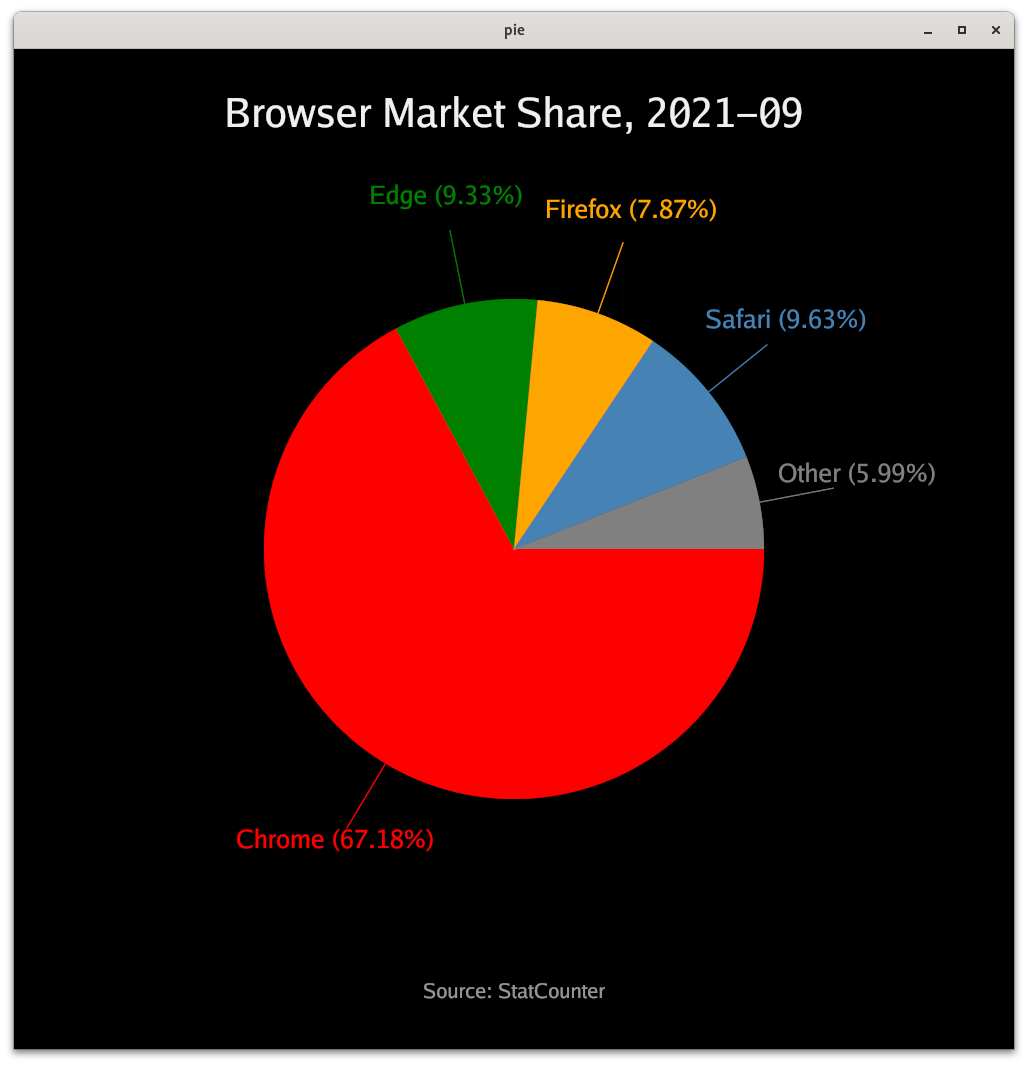
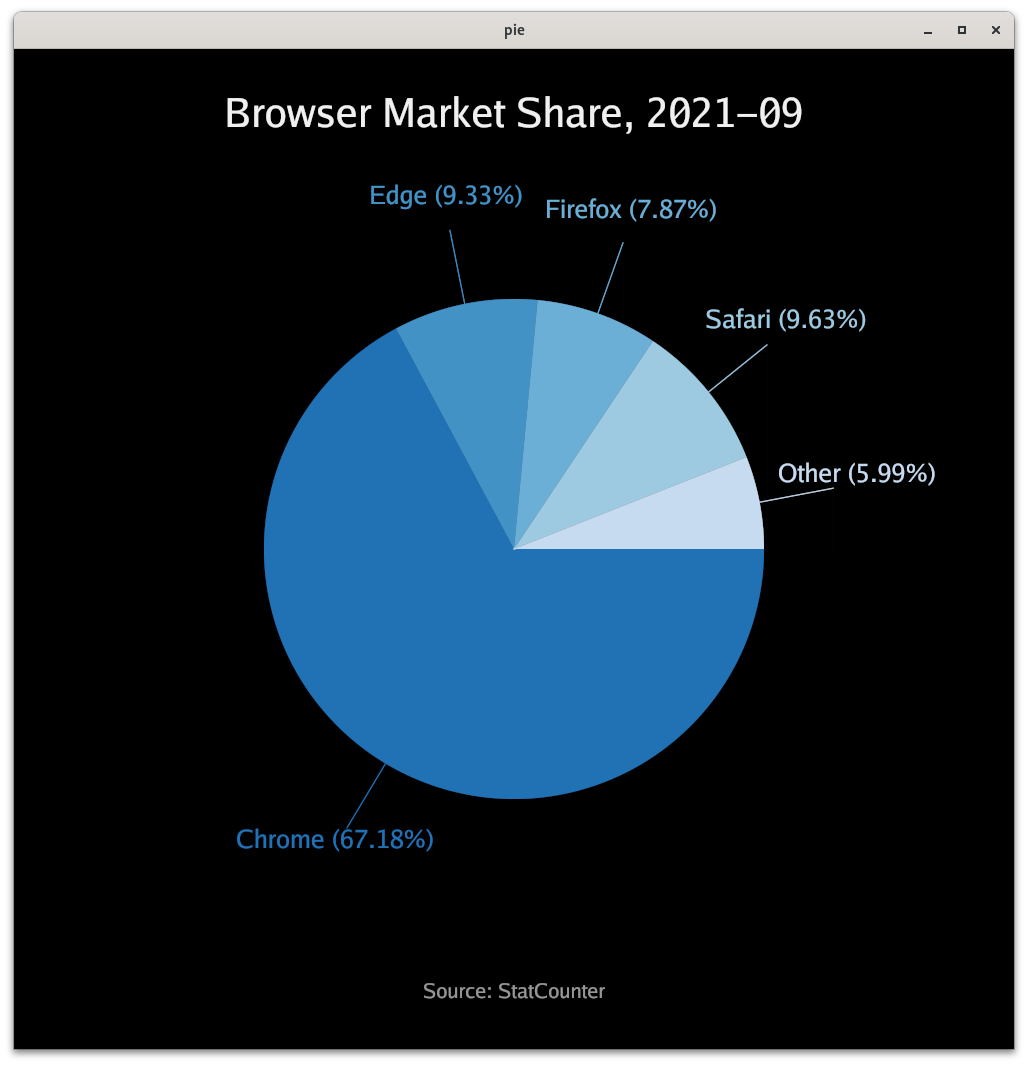
pie: use blue color palette

diff --git a/pie/main.go b/pie/main.go
@@ -200,11 +200,11 @@ func pie(w *app.Window, width, height float32, files []string) error {
 		title = make([]string, 1)
 		title[0] = "Browser Market Share, 2021-09"
 		data[0] = []piedata{
-			{name: "Chrome", value: 67.17, color: "red"},
-			{name: "Edge", value: 9.33, color: "green"},
-			{name: "Firefox", value: 7.87, color: "orange"},
-			{name: "Safari", value: 9.63, color: "steelblue"},
-			{name: "Other", value: 5.99, color: "gray"},
+			{name: "Chrome", value: 67.17, color: "#2171b5"},
+			{name: "Edge", value: 9.33, color: "#4292c6"},
+			{name: "Firefox", value: 7.87, color: "#6baed6"},
+			{name: "Safari", value: 9.63, color: "#9ecae1"},
+			{name: "Other", value: 5.99, color: "#c6dbef"},
 		}
 	} else { // if you have files, read and load data, skipping bad files
 		data = make([][]piedata, len(files))
